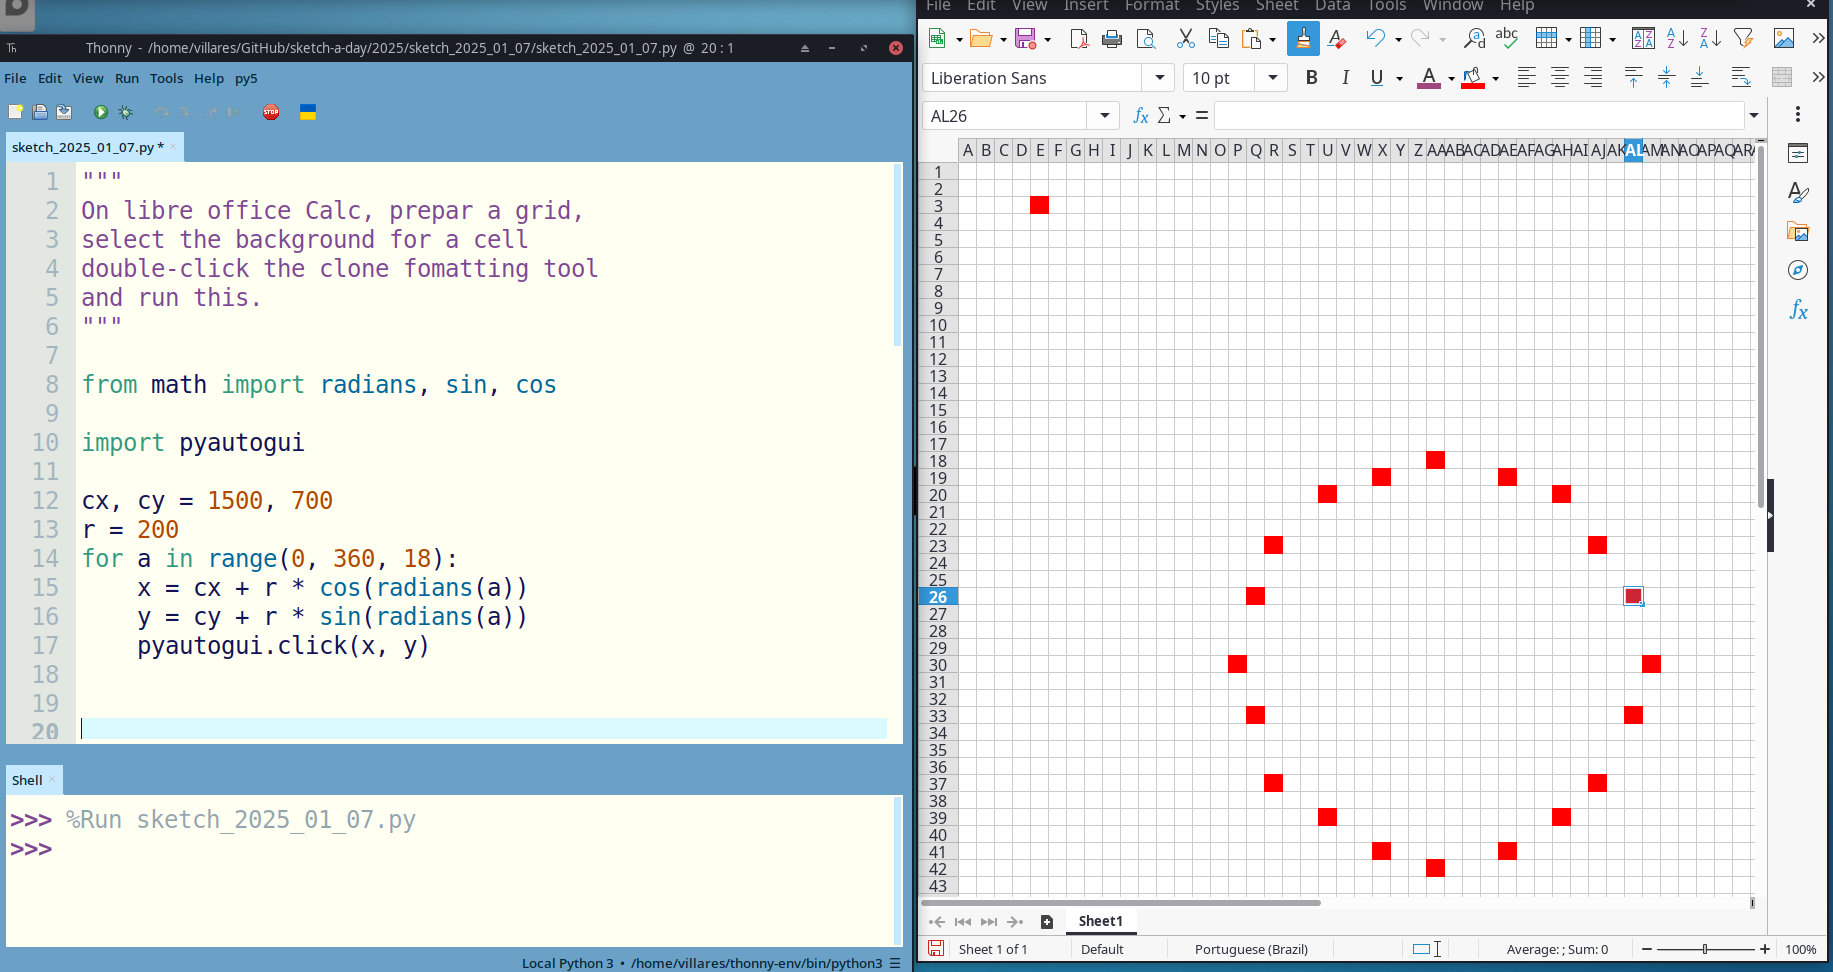
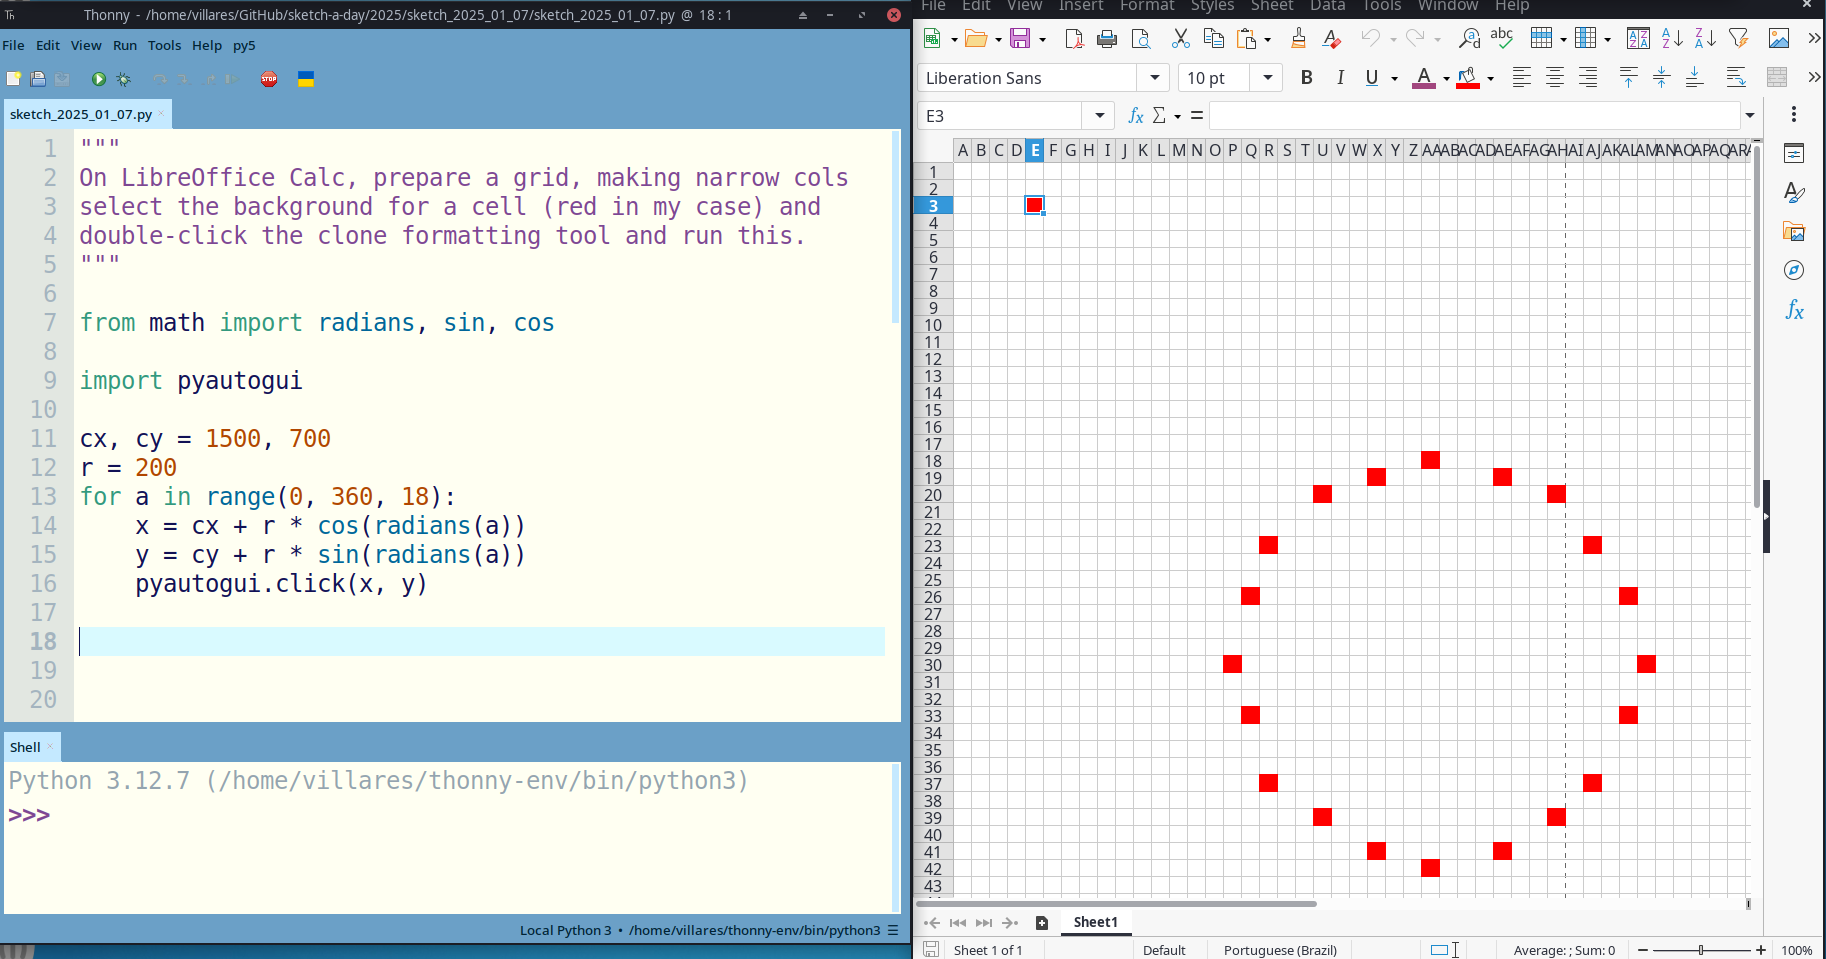
7

Changed region(s): [[0.0, 0.0, 1.0, 1.0], [0.2809, 0.3326, 0.3122, 0.3629]]

diff --git a/2025/sketch_2025_01_07/sketch_2025_01_07.py b/2025/sketch_2025_01_07/sketch_2025_01_07.py
@@ -1,8 +1,7 @@
 """
-On libre office Calc, prepar a grid,
-select the background for a cell
-double-click the clone fomatting tool
-and run this.
+On LibreOffice Calc, prepare a grid, making narrow cols
+select the background for a cell (red in my case) and
+double-click the clone formatting tool and run this.
 """
 
 from math import radians, sin, cos
